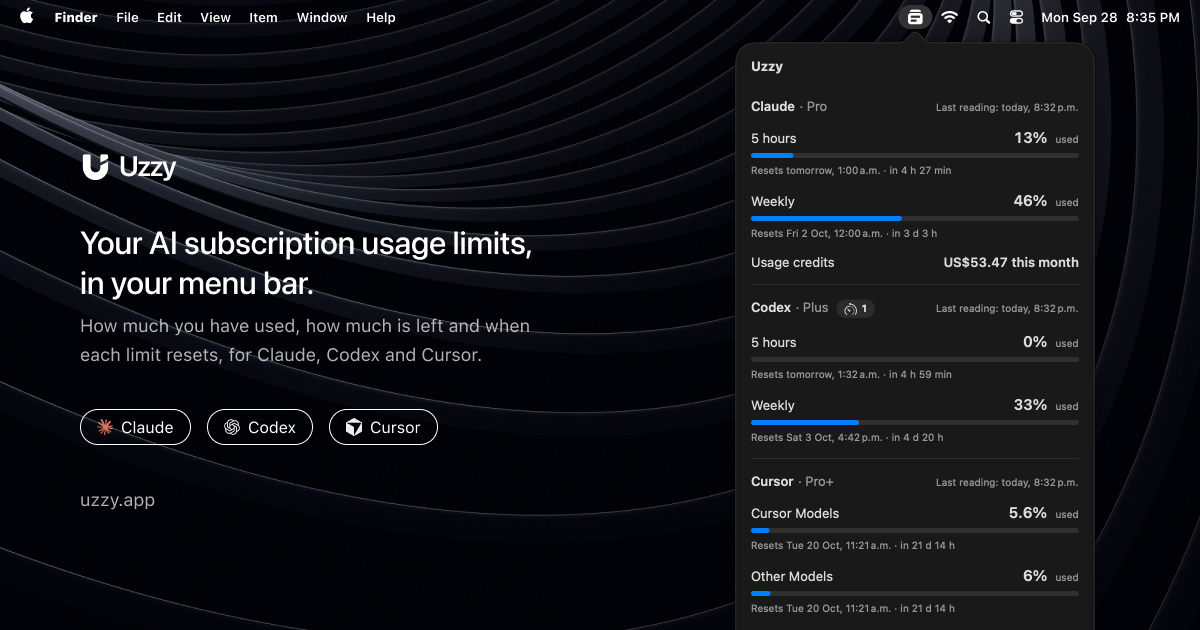
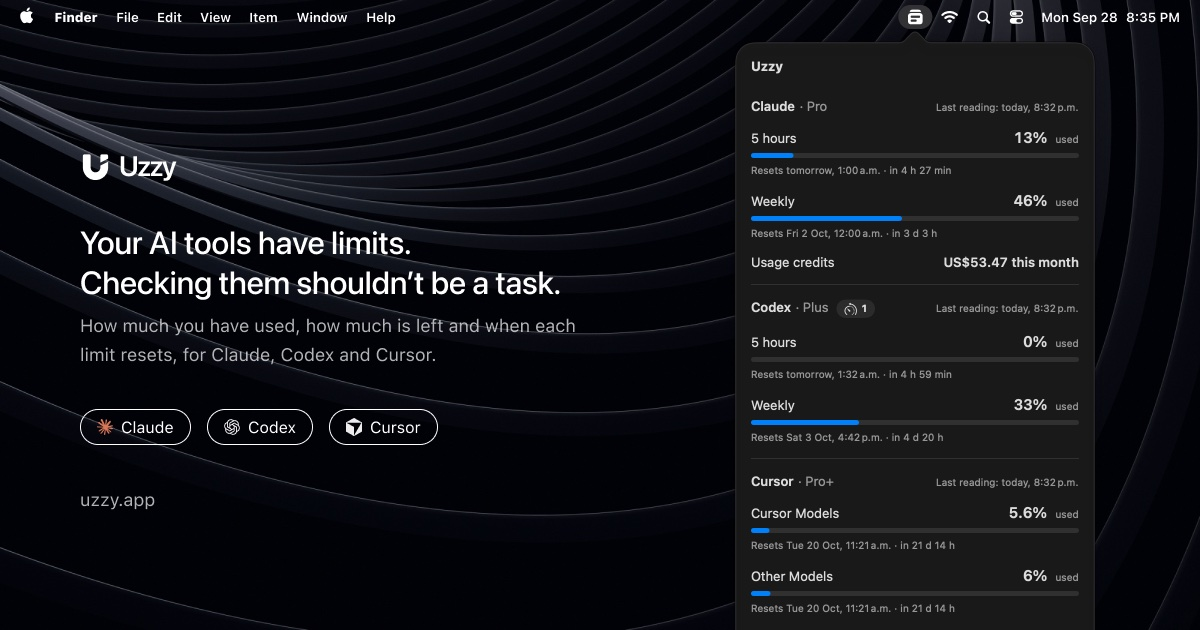
feat(site): ship the approved homepage voice and layout (#145)
* docs(context): drop subscription and every from marketing copy

- Marketing copy says «AI usage limits», without «subscription»;
  the domain term Subscription quota stays.
- While the provider list is closed, copy names Claude, Codex and
  Cursor instead of saying «every» or «all» providers or limits.

Ref: #144

* feat(site): ship the approved homepage voice and layout

- Promote the approved prototype copy and markup: new hero, why,
  features, privacy rows, providers intro, faq and closing banner,
  with no «subscription» and no «every» claims.
- Fixed translucent header, 60ch columns, two columns from xl and a
  sticky desktop card offset by a shared --card-gap so it never
  jumps; the analytics note moves to the centred footer small print.
- <title> and og:title read «Uzzy — AI usage limits for Claude,
  Codex and Cursor»; the description stays the hero subtitle.
- Re-export og.jpg from Figma with the new headline and update its
  alt text.

Closes: #144

* docs(readme): follow the new site voice

- Open with the site's hero and subtitle.
- Rewrite Why Uzzy and the first four features after the site's why
  and features, keeping the README's extra detail.
- Say «each usage limit» instead of «every usage limit».

Ref: #144

* chore: use the new headline in the github social preview

- Re-export docs/images/github-social.jpg from the Figma frame
  «og:image - github (JPEG)» with «Your AI tools have limits.
  Checking them shouldn’t be a task.»

Ref: #144
[…]

diff --git a/site/src/content.ts b/site/src/content.ts
@@ -1,4 +1,4 @@
-// The landing copy, from the README and issue #105.
+// The landing copy, approved in issue #144.
 export const DOWNLOAD_URL =
   "https://github.com/aka-cronos/uzzy/releases/latest/download/Uzzy.dmg";
 export const REPO_URL = "https://github.com/aka-cronos/uzzy";
@@ -6,31 +6,17 @@ export const VERSION = "0.1.0";
 export const REQUIREMENTS = "macOS 27 · Apple Silicon";
 
 export const hero = {
-  title: "Your AI subscription usage limits, in your menu bar.",
-  subtitle:
-    "How much you have used, how much is left and when each limit resets, for Claude, Codex and Cursor.",
+  title: "Your AI tools have limits. Checking them shouldn’t be a task.",
+  subtitle: "See how much you’ve used, how much is left and when your usage limits reset—for Claude, Codex and Cursor, in one menu bar panel.",
 };
 
-export const why =
-  "If you pay for more than one AI coding subscription, finding out how close you are to a limit means opening each provider's dashboard. Uzzy puts every usage limit in one panel, reusing the sessions Claude Code, Codex CLI and Cursor already keep on your Mac. Nothing to sign in to, no API key to paste.";
+export const why = "Keep using Claude, Codex and Cursor. Uzzy brings their usage limits together so you can stop checking each one separately.";
 
 export const features = [
-  {
-    title: "One panel, every provider",
-    body: "A menu bar icon opens a panel with a card for each subscription, and each card shows the account's plan next to its name.",
-  },
-  {
-    title: "Every usage limit on its own",
-    body: "5 hours, weekly, per model: each usage limit gets its own bar, its reset in local time with a countdown, and when it was last read, never blended into one number. Usage credits and banked resets are shown next to them.",
-  },
-  {
-    title: "Only asks while you look",
-    body: "Uzzy reads your usage limits when you open the panel and every five minutes while it stays open. Closed, it makes no requests at all.",
-  },
-  {
-    title: "Honest when things fail",
-    body: "No session, expired session, offline: the card says why and the others keep working. Missing data is never shown as zero.",
-  },
+  { title: "Three tools. One quick check.", body: "Open Uzzy from your menu bar to see Claude, Codex and Cursor together, with a separate card for each provider and its plan." },
+  { title: "Different limits stay different.", body: "Check each usage limit on its own, with its reset time, countdown and last reading. Five-hour and weekly limits are never blended into one number." },
+  { title: "Checks while you look.", body: "Uzzy refreshes readings when needed as you open the panel, then every five minutes while it stays open. Close it and the requests stop." },
+  { title: "Missing doesn’t mean zero.", body: "If a session expires or a provider can’t be reached, Uzzy tells you what happened. The other providers keep working." },
 ];
 
 export const providers = [
@@ -52,12 +38,11 @@ export const providers = [
 ];
 
 export const privacy = [
-  "Reuses your existing sessions read-only. Never asks for a password, never signs in, never writes credentials.",
-  "Talks only to api.anthropic.com, chatgpt.com and api2.cursor.sh. No telemetry, no server of its own.",
-  "Usage data lives in memory only. Nothing is written to disk.",
-  "This site counts visits with Cloudflare Web Analytics: no cookies, no personal data. The app itself sends nothing.",
+  { title: "Read-only access.", body: "Uzzy reuses your existing sessions. It never asks for a password, signs in for you or writes credentials." },
+  { title: "Straight to your providers.", body: "Usage requests go directly to Claude, Codex and Cursor. No telemetry. No server of its own." },
+  { title: "Readings stay in memory.", body: "Uzzy doesn’t save usage readings to disk." },
 ];
+
 export const hosts = ["api.anthropic.com", "chatgpt.com", "api2.cursor.sh"];
 
-export const disclaimer =
-  "Uzzy is an independent project, not affiliated with, endorsed or sponsored by Anthropic, OpenAI or Anysphere. It reads usage data through undocumented endpoints that may change without notice.";
+export const disclaimer = "Uzzy is an independent project, not affiliated with, endorsed or sponsored by Anthropic, OpenAI or Anysphere. It reads usage limits through undocumented endpoints that may change without notice.";

diff --git a/README.md b/README.md
@@ -1,8 +1,8 @@
 <h1 align="center">Uzzy</h1>
 
 <p align="center">
-  <strong>Your AI subscription usage limits, in your menu bar.</strong><br>
-  How much you have used, how much is left and when each limit resets, for Claude, Codex and Cursor.
+  <strong>Your AI tools have limits. Checking them shouldn’t be a task.</strong><br>
+  See how much you’ve used, how much is left and when your usage limits reset—for Claude, Codex and Cursor, in one menu bar panel.
 </p>
 
 <p align="center">
@@ -17,19 +17,19 @@
 </p>
 
 <p align="center">
-  <img src="docs/images/app.jpg" width="420" alt="The Uzzy panel open from the menu bar, with one card each for Claude, Codex and Cursor and each account's plan next to its title. Every usage limit has its own bar, its used percentage and its reset time; the Claude card also shows the usage credits spent this month, and the Codex card a badge with its banked resets.">
+  <img src="docs/images/app.jpg" width="420" alt="The Uzzy panel open from the menu bar, with one card each for Claude, Codex and Cursor and each account's plan next to its title. Each usage limit has its own bar, its used percentage and its reset time; the Claude card also shows the usage credits spent this month, and the Codex card a badge with its banked resets.">
 </p>
 
 ## Why Uzzy
 
-If you pay for more than one AI coding subscription, finding out how close you are to a limit means opening each provider's dashboard. Uzzy puts every usage limit in one panel, reusing the sessions Claude Code, Codex CLI and Cursor already keep on your Mac. There is nothing to sign in to and no API key to paste.
+Keep using Claude, Codex and Cursor. Uzzy brings their usage limits together so you can stop checking each one separately. It reuses the sessions Claude Code, Codex CLI and Cursor already keep on your Mac: no extra sign-in, no API key to paste.
 
 ## Features
 
-- **One card per provider.** A fixed menu bar icon opens a panel with a card for each enabled provider.
-- **Every usage limit on its own.** Each usage limit («5 horas», «Semanal», «Cursor Models»…) gets its own bar, its reset in local time with a countdown, and the time of its last reading. Usage limits are never combined into a single percentage, and usage credits and banked resets are shown next to them.
-- **Queries only while you look.** Uzzy reads the usage limits when you open the panel (unless the last reading is under five minutes old), every five minutes while it stays open, and on demand with the refresh button. With the panel closed it makes no requests.
-- **Honest failures.** If a provider fails, its card explains why (no session, expired session, offline, incompatible response…) and the others keep working. When a refresh fails, the card keeps the last valid reading and marks it as stale. Missing data is never shown as zero.
+- **Three tools. One quick check.** Open Uzzy from your menu bar to see Claude, Codex and Cursor together, with a separate card for each enabled provider and its plan.
+- **Different limits stay different.** Check each usage limit («5 horas», «Semanal», «Cursor Models»…) on its own, with its reset in local time, a countdown and the time of its last reading. Five-hour and weekly limits are never blended into one number, and usage credits and banked resets are shown next to them.
+- **Checks while you look.** Uzzy refreshes readings as you open the panel (unless the last reading is under five minutes old), then every five minutes while it stays open, and on demand with the refresh button. Close it and the requests stop.
+- **Missing doesn’t mean zero.** If a session expires or a provider can’t be reached, Uzzy tells you what happened (no session, expired session, offline, incompatible response…) and the other providers keep working. When a refresh fails, the card keeps the last valid reading and marks it as out of date.
 - **Native settings.** Choose whether the cards show how much is used or left, and turn each provider on or off or change the order of the cards.
 - **Your language.** The interface follows the system language: English or Spanish.
 

diff --git a/CONTEXT.md b/CONTEXT.md
@@ -6,7 +6,8 @@ Uzzy shows the subscription quotas of AI services and when they reset.
 
 **Copy**:
 Any text a person reads about Uzzy: the app, the uzzy.app site, the README and the social images. The Spanish and English terms below apply to all of it.
-_Avoid_: Treating marketing text as exempt from the glossary.
+Marketing copy (the site, the README, the social images and the repo description) says «AI usage limits», without «subscription». While the list of providers is closed, no copy says «every» or «all» about providers or usage limits; it names Claude, Codex and Cursor instead.
+_Avoid_: Treating marketing text as exempt from the glossary; «subscription» in marketing copy; «every provider», «every usage limit», «all your limits».
 
 **Subscription quota**:
 A usage limit a provider applies to a subscription over a given period. Distinct from monetary spend and from billed API consumption.
